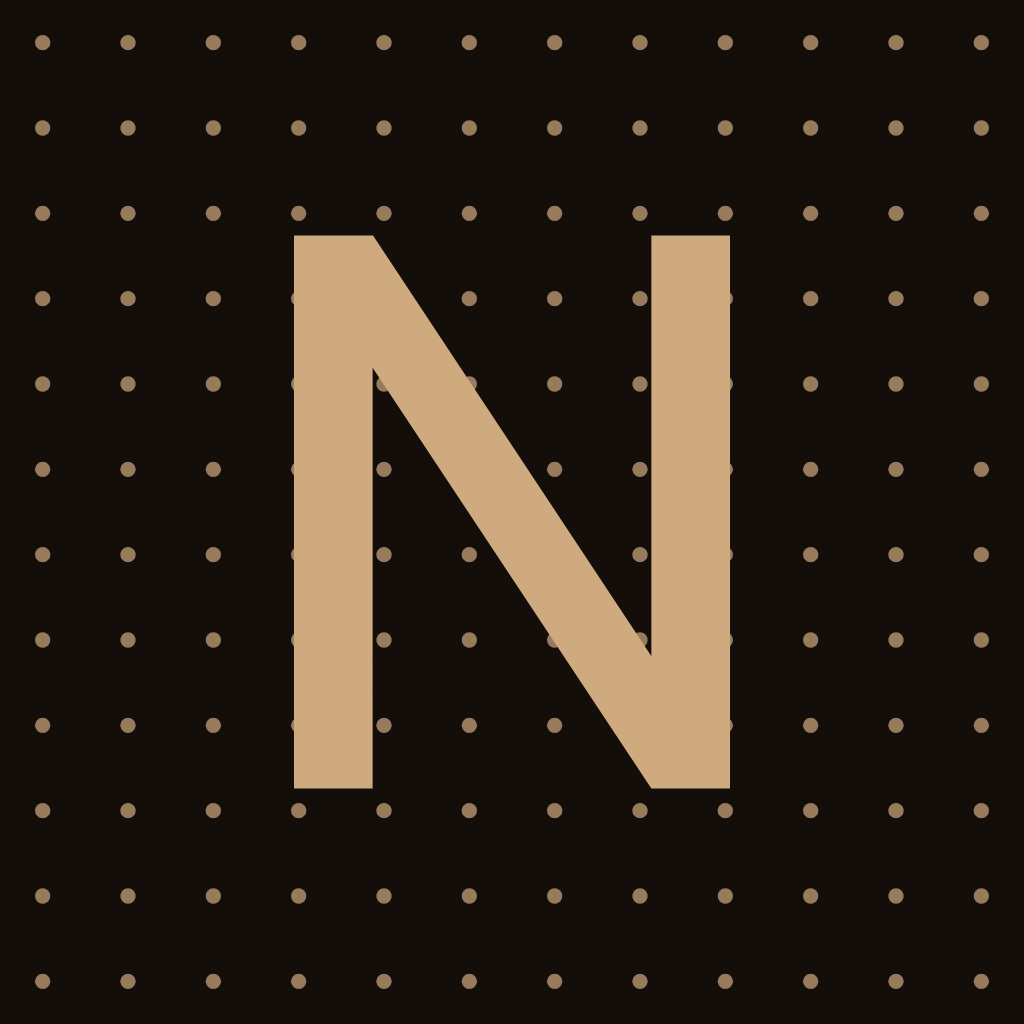
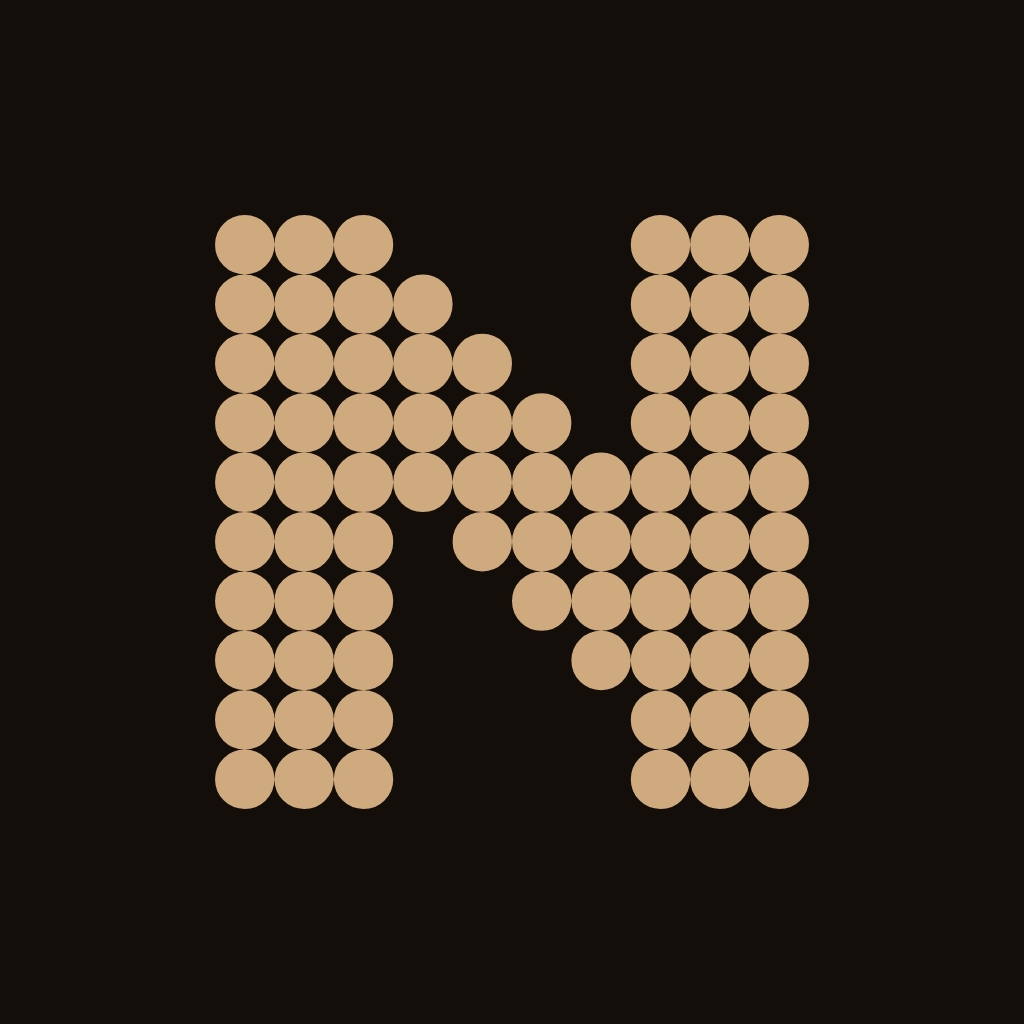
refactor(brand): keep one mark and drop the superseded renderer
The avatars now carry the same Array mark the favicon does, so the Satoshi
face, the grille and the switches that chose between them come out with the
pair they existed to produce. avatar.html renders one thing again, and
generate.sh writes the two PNGs that are actually used.

Also records the two things worth knowing before touching the mark: centre
on the glyph's ink rather than its advance, and leave the diagonal where the
typeface puts it.

diff --git a/brand/avatar.html b/brand/avatar.html
@@ -14,20 +14,13 @@
 <canvas id="c"></canvas>
 <script>
   // Renders one next.fm bot-account avatar. Query params:
-  //   mode=light|dark    which side of the palette
-  //   face=satoshi|array which typeface sets the N
-  //   grille=on|off      the perforation field behind the mark
-  //   size=<px>          output edge length (default 1024)
-  //   cols, dot          grille pitch and perforation radius, for retuning
+  //   mode=light|dark   which side of the palette
+  //   size=<px>         output edge length (default 1024)
   // The palette values mirror the tokens in frontend/src/app/globals.css; when
   // those change, re-derive here and regenerate.
   const params = new URLSearchParams(location.search);
   const mode = params.get("mode") === "dark" ? "dark" : "light";
-  const faceKey = params.get("face") === "array" ? "array" : "satoshi";
-  const SHOW_GRILLE = params.get("grille") !== "off";
   const SIZE = Number(params.get("size") || 1024);
-  const num = (key, fallback) =>
-    params.has(key) ? Number(params.get(key)) : fallback;
 
   const PALETTE = {
     light: {
@@ -40,41 +33,18 @@
     },
   }[mode];
 
-  // Each face is sized by cap height, so the mark keeps its vertical presence
-  // whichever one sets it. Array takes the larger cap despite being the wider
-  // drawing: it builds its N out of discrete dots, and at the ~180px an avatar
-  // is actually shown at, a smaller setting lets neighbouring dots antialias
-  // into each other until the strokes go solid and the point of the face is
-  // lost. It still clears the circle both services crop to with margin.
-  //
-  // Satoshi's weight sits below the weight body copy runs at, on purpose: the
-  // site shifts its ladder up a step to correct a short x-height, and a
-  // capital has no x-height to correct. Array is cut at 400 and 600 with
-  // nothing between; 600 is the one that carries at icon sizes.
-  const FACES = {
-    satoshi: {
-      family: "Satoshi",
-      file: "satoshi-variable.woff2",
-      range: "300 900",
-      weight: 540,
-      capRatio: 0.54,
-    },
-    array: {
-      family: "Array",
-      file: "array-600.woff2",
-      range: "600",
-      weight: 600,
-      capRatio: 0.58,
-    },
-  };
-  const FACE = FACES[faceKey];
-
-  // Proportions of the canvas edge, so any size renders identically.
-  const CAP_RATIO = FACE.capRatio; // N cap height
-  const WEIGHT = FACE.weight;
-  const COLUMNS = num("cols", 12); // grille perforations across the edge
-  const DOT_ALPHA = num("alpha", 0.7);
-  const DOT_RADIUS = num("dot", 0.0075);
+  // The mark is the N of Array, the display face, which draws its letters as a
+  // field of discrete dots - so the perforated look sits in the letterform and
+  // the field behind it stays plain. Array is cut at 400 and 600 with nothing
+  // between; 600 is the one that carries at the sizes an avatar is seen at.
+  const FONT_FILE = "array-600.woff2";
+  const WEIGHT = 600;
+  // Proportion of the canvas edge, so any size renders identically. Set large
+  // for a display face: the dots have to stay separated after the downscale to
+  // ~180px, and a smaller setting lets neighbours antialias into each other
+  // until the strokes go solid. It still clears the circle both services crop
+  // avatars to by 9% of the edge.
+  const CAP_RATIO = 0.58;
 
   const canvas = document.getElementById("c");
   canvas.width = SIZE;
@@ -83,44 +53,19 @@
   canvas.style.height = SIZE + "px";
   const ctx = canvas.getContext("2d");
 
-  // The champagne metal grille of the headphones the palette is modeled on: an
-  // even perforation field, spaced open so it reads as material rather than
-  // pattern.
-  // The field is deliberately more present than the same texture would be
-  // in-app, and both numbers below are load-bearing for that. An avatar is
-  // shown at ~180px and smaller, where a perforation this size lands under a
-  // pixel: antialiasing then spreads it across its neighbours and drains the
-  // contrast, so a token-quiet alpha renders as nothing at all. The dot has to
-  // clear a pixel at display size and the alpha has to survive being averaged
-  // with the background. Judge any change to either at 180px and 96px, not at
-  // full size, where everything looks fine.
-  const drawGrille = () => {
-    const gap = SIZE / COLUMNS;
-    ctx.fillStyle = PALETTE.primary;
-    ctx.globalAlpha = DOT_ALPHA;
-    for (let y = gap / 2; y < SIZE; y += gap) {
-      for (let x = gap / 2; x < SIZE; x += gap) {
-        ctx.beginPath();
-        ctx.arc(x, y, DOT_RADIUS * SIZE, 0, Math.PI * 2);
-        ctx.fill();
-      }
-    }
-    ctx.globalAlpha = 1;
-  };
-
   // Centers on the N's own ink on both axes. Neither alignment does this by
   // itself: `alphabetic` sits the glyph on its baseline, and `center` centers
   // the advance width, which only matches the ink when the two sidebearings
-  // are equal. Satoshi's are; Array's are 0 and 100, so trusting the advance
-  // hangs its N a visible step to the left of the tile.
+  // are equal. Array's are 0 and 100, so trusting the advance hangs the mark a
+  // visible step to the left of the tile.
   const drawMark = () => {
     let fontSize = SIZE;
-    ctx.font = `${WEIGHT} ${fontSize}px ${FACE.family}`;
+    ctx.font = `${WEIGHT} ${fontSize}px Array`;
     const probe = ctx.measureText("N");
     const capAtProbe = probe.actualBoundingBoxAscent + probe.actualBoundingBoxDescent;
     fontSize = (CAP_RATIO * SIZE * fontSize) / capAtProbe;
 
-    ctx.font = `${WEIGHT} ${fontSize}px ${FACE.family}`;
+    ctx.font = `${WEIGHT} ${fontSize}px Array`;
     ctx.textAlign = "center";
     ctx.textBaseline = "alphabetic";
     const m = ctx.measureText("N");
@@ -133,13 +78,12 @@
   const render = () => {
     ctx.fillStyle = PALETTE.background;
     ctx.fillRect(0, 0, SIZE, SIZE);
-    if (SHOW_GRILLE) drawGrille();
     drawMark();
     document.title = "ready";
   };
 
-  const font = new FontFace(FACE.family, `url(${FACE.file}) format('woff2')`, {
-    weight: FACE.range,
+  const font = new FontFace("Array", `url(${FONT_FILE}) format('woff2')`, {
+    weight: String(WEIGHT),
   });
   font.load().then((loaded) => {
     document.fonts.add(loaded);

diff --git a/brand/README.md b/brand/README.md
@@ -4,46 +4,23 @@ Icons for the project, used as favicons and account profile pictures.
 
 ## The files
 
-Two 1024x1024 PNGs, an `N` set in Satoshi over the palette in `docs/theme.md`:
+Two 1024x1024 PNGs, an `N` set in Array over the palette in `docs/theme.md`:
 
 | File | Background | Mark |
 | --- | --- | --- |
 | `nextfm-light.png` | champagne-taupe paper (`--background`) | chestnut (`--primary`) |
 | `nextfm-dark.png` | chestnut shell (`--background`) | champagne (`--primary`) |
 
-Both sit over a widely spaced perforation field - the champagne metal grille
-of the headphones the palette is modeled on. It is pitched more present than
-the same texture would be in-app, on purpose: an avatar is shown at ~180px and
-smaller, and a perforation that lands under a pixel there gets antialiased into
-the background until it disappears. The open pitch, the dot size and the alpha
-are all set so the field survives that downscale rather than looking restrained
-at full size and turning into nothing where it is actually used.
+Array is the display face, and it draws its letters as a field of discrete
+dots - the champagne metal grille of the headphones the palette is modeled on,
+sitting inside the letterform rather than behind it. Nothing is drawn on the
+field behind the mark: a second dot field at a different pitch under this one
+reads as noise rather than as texture.
 
 Both services crop avatars to a circle; the mark is sized to clear the
 inscribed circle with margin, so the square and circle crops both work.
 
-## The display-face cut
-
-A second pair sets the same `N` in Array - the display face - and drops the
-grille: `nextfm-array-light.png` and `nextfm-array-dark.png`.
-
-Array draws its letters as a field of discrete dots, so the perforation
-texture moves out of the background and into the glyph. The grille comes off
-because of that, not to simplify: run both and the two dot fields sit at
-different pitches over each other and read as noise.
-
-The mark takes a larger cap height here than the Satoshi one (0.58 against
-0.54) even though Array is the wider drawing. The dots have to stay separated
-after the downscale to display size; set smaller, neighbouring dots antialias
-into each other and the strokes go solid, which is the one thing this cut is
-for. It still clears the circle crop by 9% of the box.
-
-This is the cut the **site favicon** uses - see `docs/theme.md`, and
-`frontend/public/icon-{light,dark}.svg` for the vector drawn from the same
-face. The avatar PNGs the bot account uses are still the Satoshi pair above.
-The two surfaces are deliberately different images, not a mismatch to
-reconcile: the avatar is seen at ~180px where the grille is legible as
-material, the favicon at 16-32px where it would have vanished anyway.
+The site favicon is the same mark drawn as vector - see **Favicon** below.
 
 ## Regenerating
 
@@ -53,37 +30,35 @@ material, the favicon at 16-32px where it would have vanished anyway.
 ```
 
 `avatar.html` renders one avatar to a canvas, and `generate.sh` screenshots it
-in headless Chrome; one run writes all four PNGs. Both faces are vendored here
-(`satoshi-variable.woff2`, `array-600.woff2`) as the same files the site
-serves, so the marks stay identical if `node_modules` is not built.
+in headless Chrome. `array-600.woff2` is the same file the site serves,
+vendored so the mark stays identical if `node_modules` is not built. Array is
+cut at 400 and 600 with nothing between; 600 is the one that carries at the
+sizes an avatar is seen at.
 
-`avatar.html` takes `face=satoshi|array` and `grille=on|off` alongside the
-existing params, so either cut can be previewed directly in a browser before
-regenerating.
+The mark takes a large cap height for a display face (`CAP_RATIO`, 0.58 of the
+edge). The dots have to stay separated after the downscale to ~180px; set
+smaller, neighbouring dots antialias into each other until the strokes go
+solid, which loses the only reason to set the mark in this face. Judge any
+change to it at 180px and 96px, not at full size, where everything looks fine.
 
-The Satoshi `N` is set at `wght 540`, which is *lighter* than the weight body
-copy runs at. The site shifts Satoshi's whole ladder up a step to correct its short
-x-height (see `docs/theme.md`); a capital has no x-height needing that, so the
-mark comes out overweight if it inherits the shift. Judge any change to this
-number on the rendered mark, not against the body ladder.
+Centre on the glyph's **ink**, not its advance width. Array's `N` carries
+sidebearings of 0 and 100, so anything that centres the advance - canvas
+`textAlign: "center"` included - hangs the mark a visible step left of the
+tile.
 
-The grille is retunable by query param (`cols` for the pitch, `dot` for the
-perforation radius, `alpha` for its opacity) - open `avatar.html` directly to
-try values before baking them in. Judge any such change at 180px and 96px: at
-full size a field that is far too faint to see in use still looks fine.
+The mark is the glyph exactly as Array draws it. Its diagonal meets the right
+stem a row above the baseline, leaving the bottom of the stems clear; that is
+the typeface's drawing, not a sizing error, and it is deliberately not
+corrected by trimming rows or editing the outline.
 
 The palette is duplicated as literals in `avatar.html` rather than imported
 from `globals.css`; if the tokens there change meaningfully, re-derive and
 regenerate (same arrangement as the email templates, see `docs/theme.md`).
 
-The site favicon (`frontend/public/icon-{light,dark}.svg`) is the display-face
-cut drawn as vector for tab sizes, not a scaled PNG - it samples its palette
-from these files and its `N` from `array-600.woff2`. Re-derive it alongside any
-change here: take the `N` outline and scale it so its cap height is the array
-face's `capRatio` of the 100-unit viewBox, centred on both axes.
+## Favicon
 
-Centre on the glyph's **ink**, not its advance width. Array's `N` carries
-sidebearings of 0 and 100, so anything that centres the advance - canvas
-`textAlign: "center"` included - hangs the mark a visible step left of the
-tile. Satoshi's are equal, which is why this only surfaced once the second
-face arrived.
+`frontend/public/icon-{light,dark}.svg` is the same mark drawn as vector for
+tab sizes, not a scaled PNG - it samples its palette from these files and its
+`N` from `array-600.woff2`. Re-derive it alongside any change here: take the
+`N` outline and scale it so its cap height is `CAP_RATIO` of the 100-unit
+viewBox, centred on both axes.

diff --git a/docs/theme.md b/docs/theme.md
@@ -254,12 +254,12 @@ can't reach the tokens either. It is vector rather than a scaled avatar: a
 favicon is seen at 16-32px, and a downscaled photograph of a mark is never as
 crisp as the mark drawn for that size.
 
-The favicon sets its `N` in Array, the display face, where the avatars set
-theirs in Satoshi. Array draws its letters as a field of discrete dots, so the
-perforation texture the avatars carry as a grille behind the mark lives inside
-the glyph instead, and no grille is drawn - two dot fields at different pitches
-over each other read as noise. The two surfaces are therefore deliberately not
-the same image, which is the one thing to know before "fixing" either to match.
+The mark sets its `N` in Array, the display face, on a plain field. Array
+draws its letters as a field of discrete dots, so the perforated look sits in
+the letterform rather than behind it; nothing is drawn on the field, because a
+second dot field at a different pitch under this one reads as noise. The
+favicon and the avatars are the same mark, so a change to one is a change to
+both.
 
 The tile is rounded at 20% of its edge - the usual app-icon proportion, and far
 looser than `--radius` would give if scaled down to this size, which would read
@@ -284,9 +284,13 @@ The dots cost legibility at the smallest size. At 128px and 64px the mark is
 unmistakably a dot field; by 16px the dots have merged and it reads as a dense
 block with an `N` in it rather than a clean letter. That was weighed and
 accepted - the texture is the more distinctive mark, and 16px favicons are
-identified by silhouette and colour more than by letterform. If it ever needs
-walking back, the same `N` in Satoshi at wght 540 is the crisper 16px option,
-and `brand/avatar.html` still renders that face.
+identified by silhouette and colour more than by letterform.
+
+The mark is the glyph exactly as Array draws it. Its diagonal meets the right
+stem a row above the baseline, leaving the bottom of the stems clear - the
+typeface's drawing, not a sizing error. Trimming rows off the dot grid does
+seat the diagonal in the corner, but only by squaring off a letter that is
+then wider than it is tall; the glyph is left alone instead.
 
 The path is also why these files are ~15KB rather than ~1KB: a dot-matrix `N`
 is around a hundred separate contours. They are fetched once and cached, so
